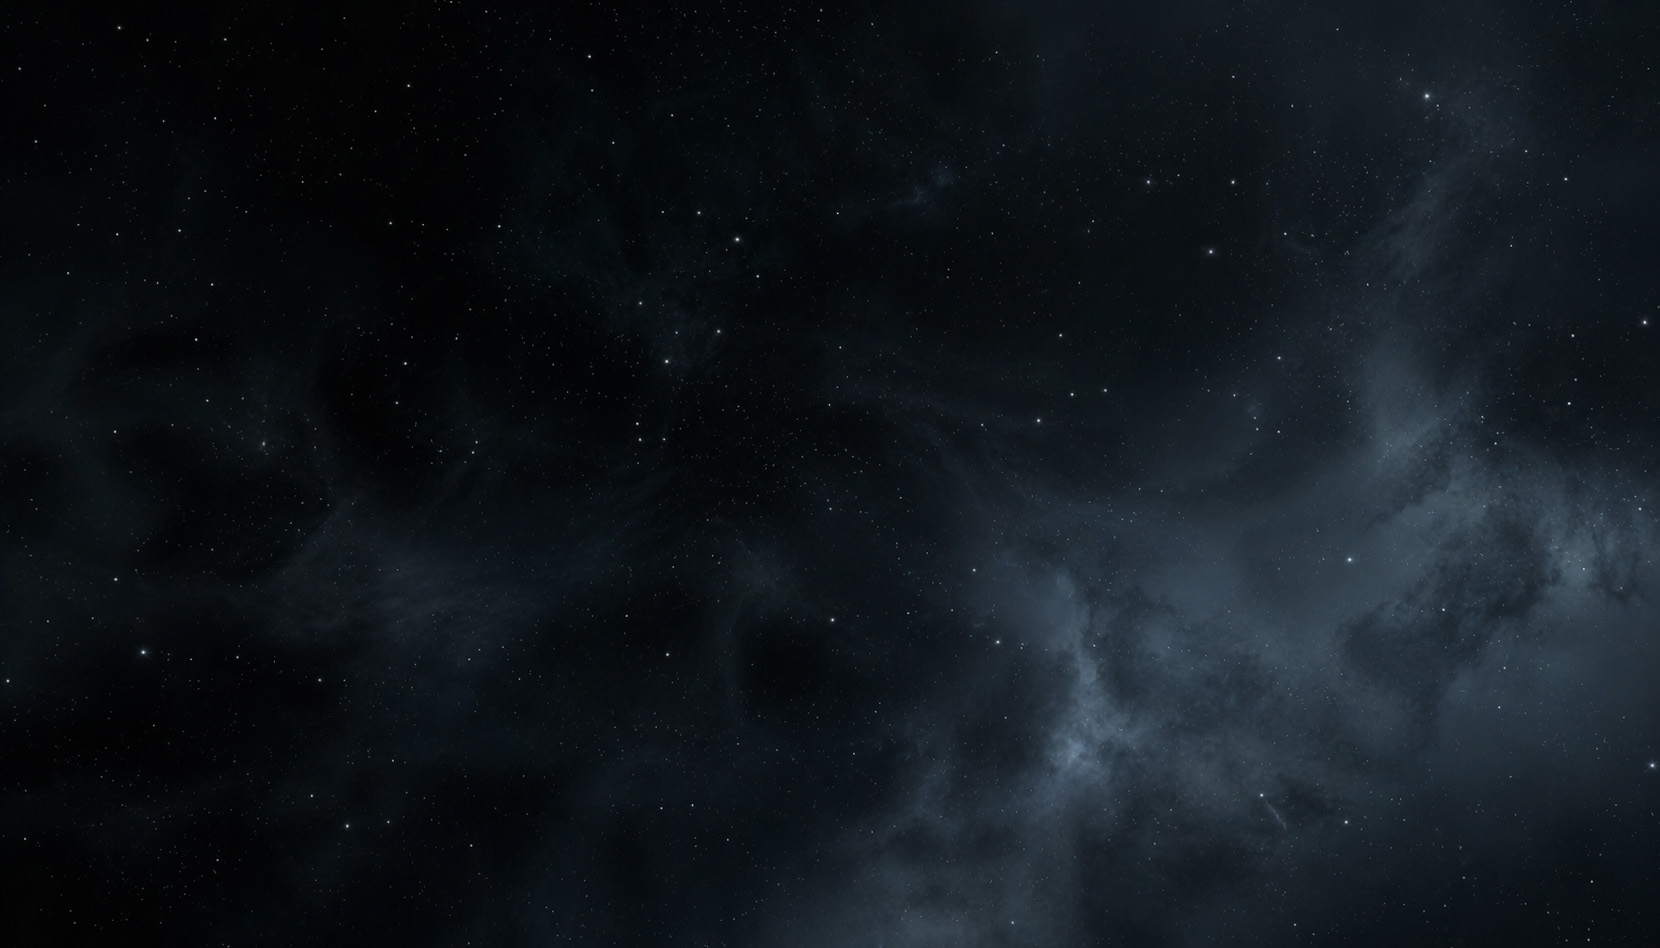
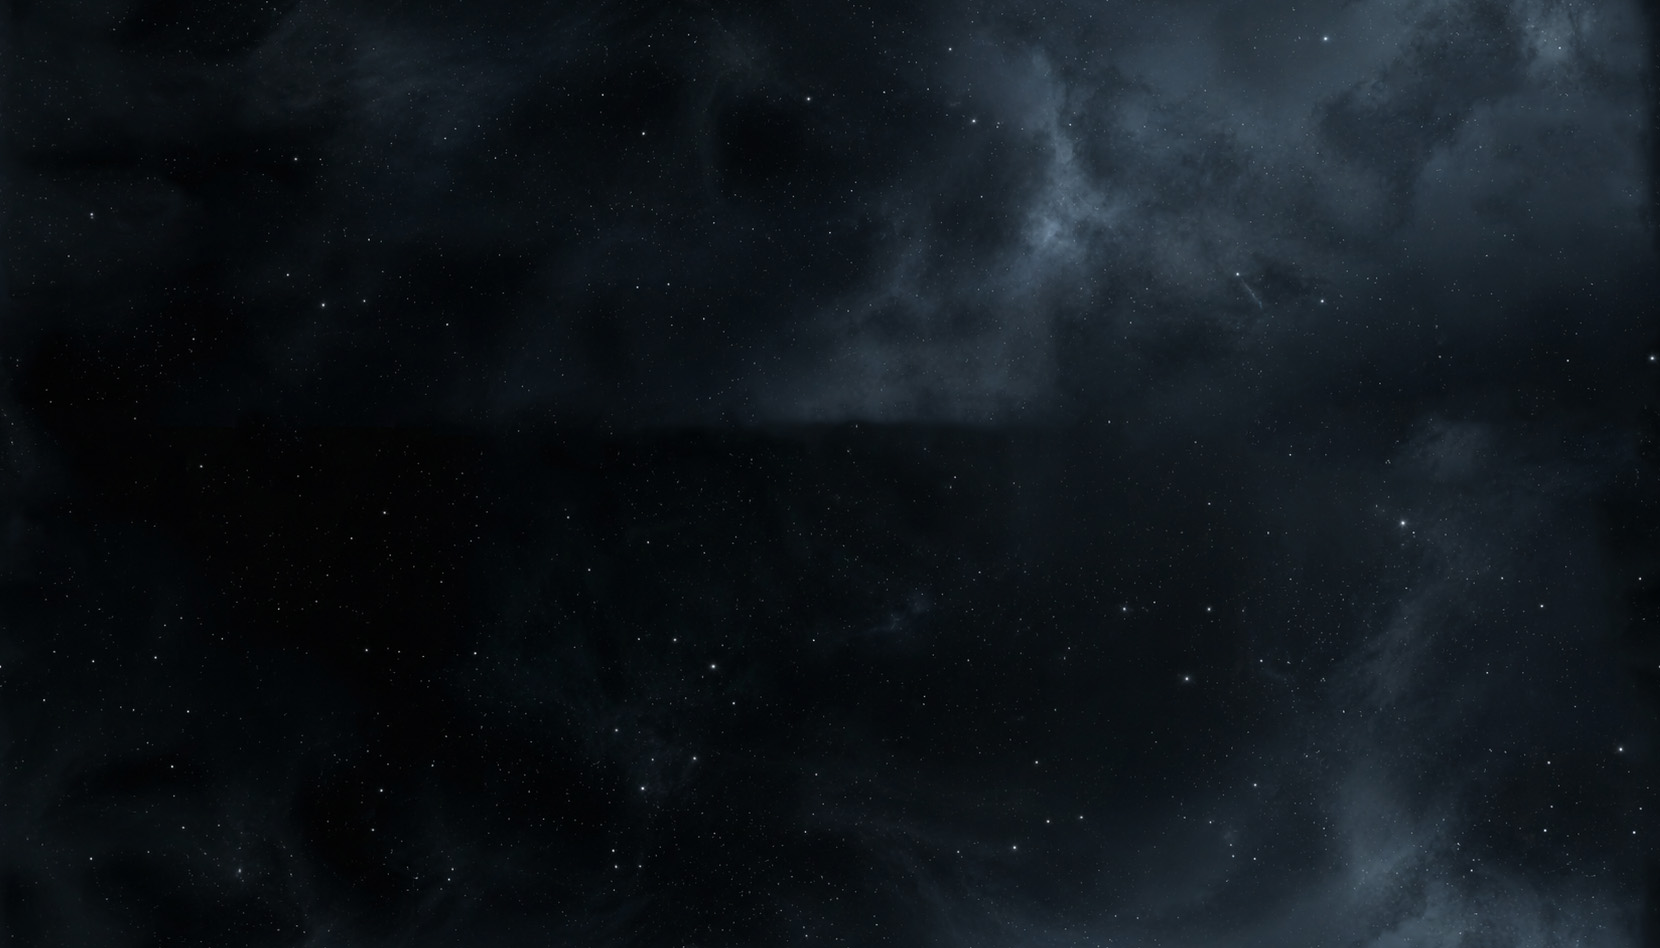
fixed background size and scroll

diff --git a/src/app/components/star-map/_star-map-base.scss b/src/app/components/star-map/_star-map-base.scss
@@ -19,17 +19,13 @@
 .star-map-background {
   position: absolute;
 
-  top: -50%;
-
-  left: -50%;
-
-  width: 200%;
-
-  height: 200%;
+  /* Width, height, left, and top are set dynamically via inline styles (in vw)
+     to be 200% of the actual map grid, centered on the viewport.  This guarantees
+     the background always covers the visible area even at maximum parallax shift. */
 
   background-image: url('/stars-background-a.jpg');
 
-  background-size: cover;
+  background-size: 200vw;
 
   background-position: center;
 
@@ -125,7 +121,9 @@
 
   cursor: pointer;
 
-  transition: background 0.15s ease, box-shadow 0.15s ease;
+  transition:
+    background 0.15s ease,
+    box-shadow 0.15s ease;
 
   &:hover {
     background: rgba(53, 134, 229, 0.3);
@@ -167,12 +165,12 @@
   justify-content: start;
 
   background-image:
-    linear-gradient(to right, rgba(53, 134, 229, 0.15) 1px, transparent 1px),
-    linear-gradient(to bottom, rgba(53, 134, 229, 0.1) 1px, transparent 4px);
+    linear-gradient(to right, rgba(53, 134, 229, 0.15) 2px, transparent 1px),
+    linear-gradient(to bottom, rgba(53, 134, 229, 0.1) 2px, transparent 4px);
 
   background-size: var(--cell-size-vw, 5vw) var(--cell-size-vw, 5vw);
 
-   transition: transform 100ms linear;
+  transition: transform 100ms linear;
 }
 
 /* =========================================================

diff --git a/src/app/components/star-map/star-map.ts b/src/app/components/star-map/star-map.ts
@@ -113,6 +113,31 @@ export class StarMap implements AfterViewInit, OnDestroy {
   cameraY = 0;
   readonly cameraSpeed = 2;
 
+  // Parallax background: the background div must always be 200% of the actual
+  // map grid (not 200% of the viewport) so the parallax shift never causes it to
+  // "run out" when the camera is panned to the map edges.  All values are in vw
+  // to stay consistent with the camera / parallax transform units.
+  /** Background width in vw — 200% of the map grid width. */
+  get bgWidthVw(): number {
+    return this.movementService.gridColumns * this.cellSizeVw * 2;
+  }
+
+  /** Background height in vw — 200% of the map grid height. */
+  get bgHeightVw(): number {
+    return this.movementService.gridRows * this.cellSizeVh * 2;
+  }
+
+  /** Left offset in vw that centers the (2× map) background on the viewport. */
+  get bgLeftVw(): number {
+    return 50 - this.movementService.gridColumns * this.cellSizeVw;
+  }
+
+  /** Top offset in vw that centers the (2× map) background on the viewport. */
+  get bgTopVw(): number {
+    const viewportHeightVw = (window.innerHeight / window.innerWidth) * 100;
+    return viewportHeightVw / 2 - this.movementService.gridRows * this.cellSizeVh;
+  }
+
   // Movement targets
   targetX: number | null = null;
   targetY: number | null = null;

diff --git a/src/app/components/star-map/star-map.html b/src/app/components/star-map/star-map.html
@@ -24,6 +24,10 @@
 
   <div
     class="star-map-background"
+    [style.width.vw]="bgWidthVw"
+    [style.height.vw]="bgHeightVw"
+    [style.left.vw]="bgLeftVw"
+    [style.top.vw]="bgTopVw"
     [style.transform]="'translate(' + -cameraX * 0.3 + 'vw, ' + -cameraY * 0.3 + 'vw)'"
   ></div>
 
